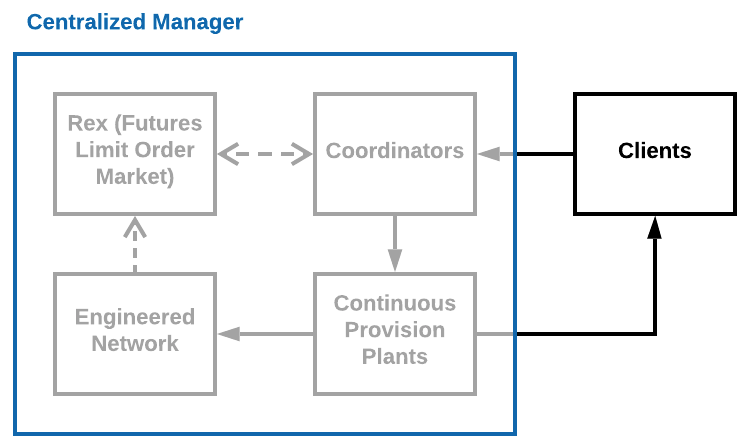
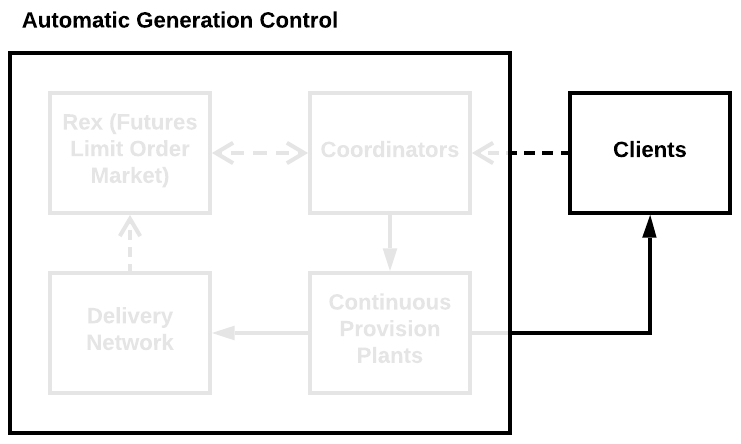
update

diff --git a/docs/DES-MAS-CDA.md b/docs/DES-MAS-CDA.md
@@ -1,4 +1,4 @@
-## 4. Discrete Event Simulation of Multi-Agent Systems (DES-MAS)
+# 4. Discrete Event Simulation of Multi-Agent Systems (DES-MAS)
 
 - basic settings
 	* next-event time-advance approach
@@ -11,7 +11,7 @@
 	* event list
 	* statistical counters
 
-### 4-1. Introduction
+## 4-1. Introduction
 
 - system states in a distributed way
 	* the market state and states of brokers are of concern
@@ -19,7 +19,7 @@
 	* number of agents, types of agents and parameters of agents
 	* the market's transparency is set
 
-- market-mediated communication only
+
 - agents' identities are not revealed in the market pool
 
 - number of agents, types of agents and parameters of agents don't evolve for now
@@ -28,19 +28,50 @@
 	* order events associated with agents or scheduled
 	* realizations and opening auctions
 
-- Models are event routine
-	* uncontrollable generations: executions of limit orders
-	* controllable generaions: submissions of market orders
-	* mixed consumptions: submissions of market orders
-
-### 4-2. Correlation of Heterogeneous Factors
+- event routine
 
 - what is the simulation results
 	* how the matching is distributed
 	* the surdden effect from external factors, the intermittency of renewable resources
 	* the impacts of different features of agents on the market and their profits from the market
 
-### 4-3. System Evolution without Market
+	- what is ABM
+
+	- why ABM
+		* it is hard by analytical methods
+		* how the initially mismatched supply and demand are balanced through the market, unaffected consumption and uncontrollable generation
+		* no need to replicate empirical findings like market micro-structure literature
+		* decision making frameworks
+		* there is no centralized coordinator, interaction between agents through the market
+	  * external factors affect agents
+	- two kinds of agent-based models
+		* brokers
+		* clients
+
+	- assumptions about ABM
+	  * agents interact with each other only through the market.
+	  * hypothesis of independence
+		* no learning ability
+		* components
+	  * two major sources of external factors: intermittency of renewable sources and daily activity cycles
+
+	- any prosumer can be represented by a set of agent models
+		* have no effect on each other
+		* summation
+
+	- agents
+		* homogeneous structure
+		* external inputs
+		* non-homogeneous parameters and functions
+
+	- correlation in the population
+
+	- stochasticity
+		* anticipated stochasticity
+		* arrival of new information: how the new info will affect realization and the market
+
+
+## 4-2. System Evolution without Market
 
 - passive load to be satisfied
 	* there is always someone responsible for satisfying the demand of every prosumer in the population.
@@ -50,49 +81,44 @@
 - unaffected realization of responsive consumptions
 - the configuration of generators in the system can be optimized
 	* three different scenarios are set in the simulation, and the degree of renewable penetrations varies
-- automatic generation control
 - benchmark
 
-### 4-4. System Evolution with Market
+### 1. Client
 
-- what is ABM
-
-- why ABM
-	* it is hard by analytical methods
-	* how the initially mismatched supply and demand are balanced through the market, unaffected consumption and uncontrollable generation
-	* no need to replicate empirical findings like market micro-structure literature
-	* decision making frameworks
-	* there is no centralized coordinator, interaction between agents through the market
-  * external factors affect agents
-- two kinds of agent-based models
-	* brokers
-	* clients
-
-- assumptions about ABM
-  * agents interact with each other only through the market.
-  * hypothesis of independence
-	* no learning ability
-	* components
-  * two major sources of external factors: intermittency of renewable sources and daily activity cycles
-
-- any prosumer can be represented by a set of agent models
-	* have no effect on each other
-	* summation
-
-- agents
-	* homogeneous structure
-	* external inputs
-	* non-homogeneous parameters and functions
-
-- correlation in the population
-
-- stochasticity
-	* anticipated stochasticity
-	* arrival of new information: how the new info will affect realization and the market
-
+- __ABM__ clients
+	* end-users
+	* generators
+	* event: send request
 - Three types of clients
 	* uncontrollable
 	* controllable
 	* responsive
+- __Event__ requests arrival
+	* continuously
+- __Event__ realization
 
-- Requests and Instruction
+### 2. Continuous Provision Plant
+
+- __ABM__ CPP
+	* DT-LTI-SS
+	* SISO
+	* MIMO
+- household production of energy services
+- energy carrier storage
+
+### 3. Centralized Manager
+
+- __ABM__ Automatic Generation Control
+
+## 4-3. System Evolution with Market
+
+- market-mediated communication only
+
+### 1. Coordinator
+
+- __ABM__ coordinator
+	* decisions
+	* responsible for multiple clients
+	* states
+
+$\lambda_{k}(t) = \frac{\partial \mathcal{M}_t \left[\mathbf{Y}(t), \mathbf{B}^{\mathrm{p}}(t), \mathbf{A}^{\mathrm{p}}(t) \right]}{\partial e_k(t)}$

diff --git a/SimRealFore/README.tex.md b/SimRealFore/README.tex.md
@@ -89,6 +89,9 @@ When future forward prices are unknown, their realization should be simulated as
 
 ## 3. Resampling of Non-Stationary Dependent Time Series
 
+- [How do you do bootstrapping with time series data?](https://stats.stackexchange.com/questions/25706/how-do-you-do-bootstrapping-with-time-series-data)
+- https://stats.stackexchange.com/questions/106389/what-are-some-methods-for-generating-simulated-time-series-data-for-use-in-model?noredirect=1&lq=1
+
 ### Model-Based Resampling
 
 > Model-based resampling is easily adopted to time series. The resamples are obtained by simulating the time series model. For example, if the model is ARIMA(p,d,q), then the resamples of an ARIMA(p, q) model with MLEs (from the differenced series) of the autoregressive and moving average coefficients and the noise variance. The resamples are the sequences of partial sum of the simulated ARIMA(p, q) process.
@@ -118,6 +121,12 @@ Assume that sub-processes are iid.
 > To adequately describe a stochastic process, it is critical to generate a sufficient number of scenarios so that these scenarios cover the most plausible realizations of the considered stochastic process. To achieve this, it is generally required to generate a very large number of scenarios, which may render the associated stochastic programming problem computationally intractable. [2]
 
 > It is thus required to develop procedures to reduce the number of scenarios initially generated. These procedures should retain most of the relevant information on the stochastic process contained in the original scenario set while reducing significantly its cardinality. [2]
+
+#### Bootstrap
+
+- https://cran.r-project.org/web/packages/boot/index.html
+- https://github.com/juliangehring/Bootstrap.jl
+- https://github.com/colintbowers/DependentBootstrap.jl
 
 
 ---
